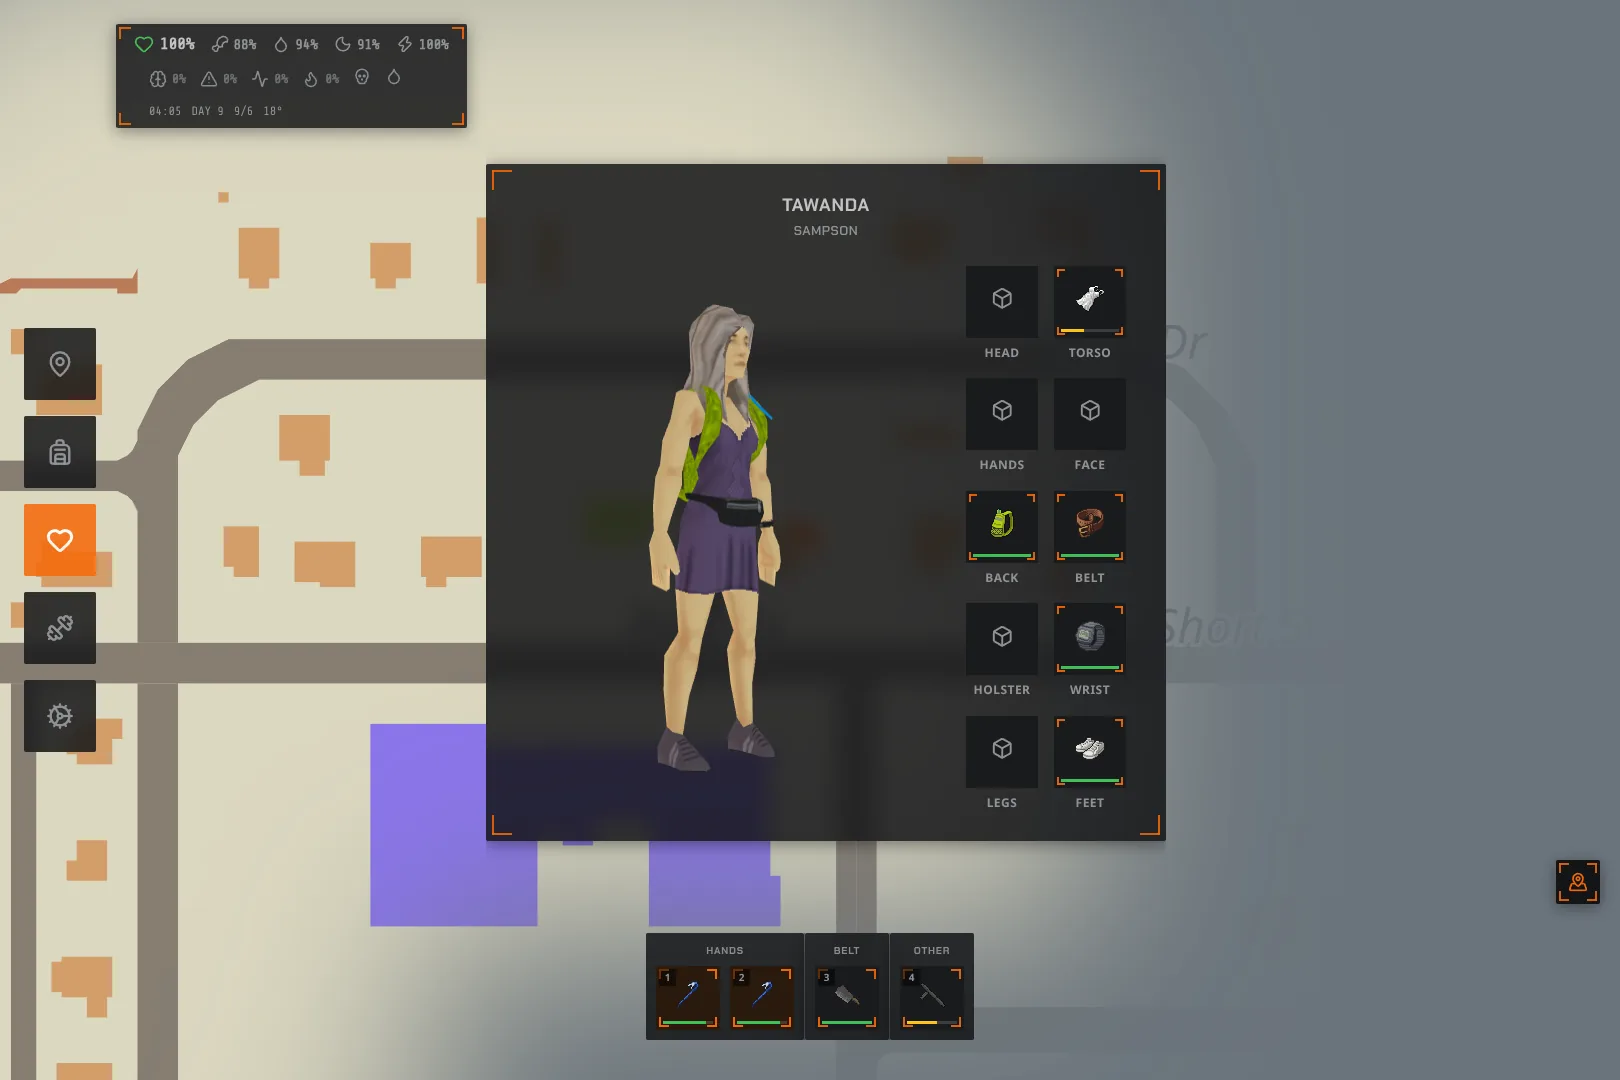
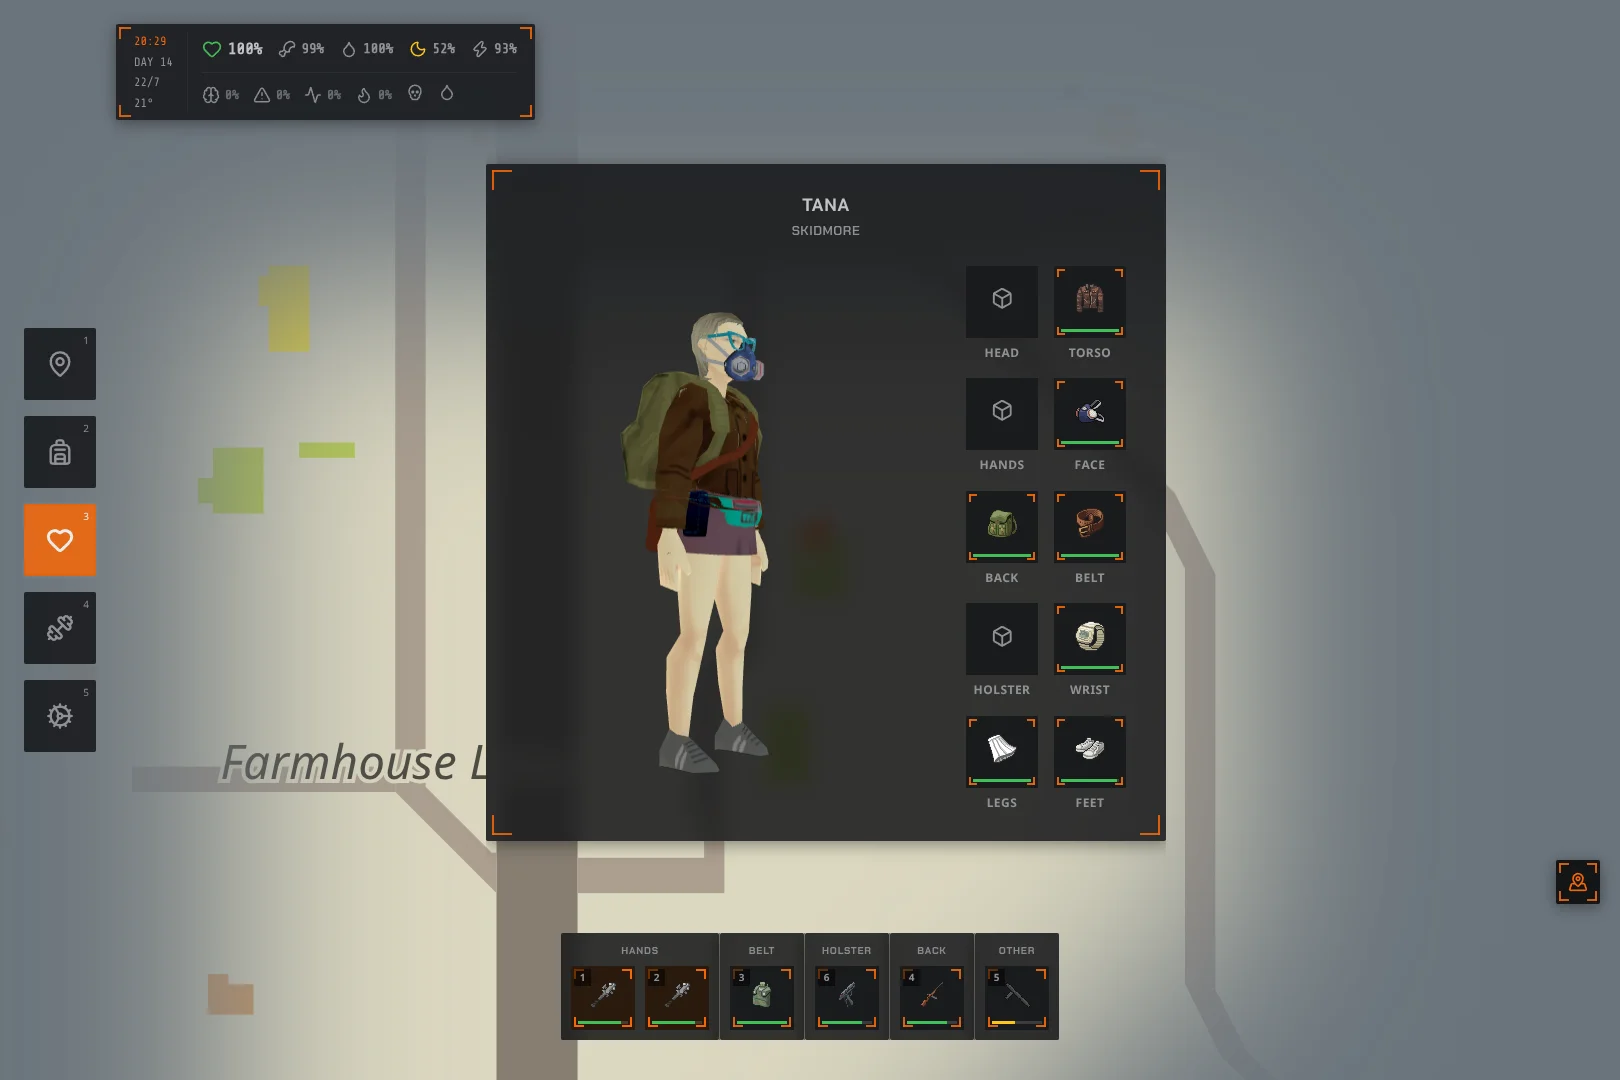
docs: refresh the READMEs and screenshots for publishing
The README described the dashboard as it was several features ago. It
now covers tap-to-route pathfinding, the streamed fog of war, traits,
the world clock and panic resistance in the vitals pill, the
annotations drawer and the keyboard navigation, and its install section
is written for someone who subscribed on the Workshop rather than for
someone with the repository checked out - including the Linux table for
translating the paths the game reports.

The mod README gains the fog and traits categories and the new status
fields, which were streaming but undocumented.

All six screenshots are retaken from a live game.

diff --git a/README.md b/README.md
@@ -1,42 +1,52 @@
 # PZ Dashboard
 
-A second-screen companion for Project Zomboid. A client-side Lua mod streams
-live game state out of the running game; choose either a local Bun server for
-second-device access or a direct browser app for a dashboard on the game
-machine.
+A second-screen companion for Project Zomboid (Build 42). A client-side Lua
+mod streams live game state out of the running game, and a browser dashboard
+displays it — and acts on it. Two ways to view: a single self-contained HTML
+file that ships inside the mod and runs straight from disk on the game
+machine, or a local Bun server for a phone, tablet or handheld on the same
+network.
 
 The PZ Lua sandbox has no network access, so the mod writes JSON snapshots
-into `<Zomboid>/Lua/PZDashboard_<category>.json` and the server watches that
-folder. The same folder carries commands the other way, so the dashboard can
-act on the game, not just display it.
+into `<Zomboid>/Lua/PZDashboard_<category>.json`. The same folder carries
+commands the other way, so the dashboard can move items and change gear, not
+just display them.
 
 ```
 Project Zomboid  ──(JSON files in <Zomboid>/Lua/)──>  Bun server  ──(HTTP + WebSocket)──>  browser
                   <──(PZDashboard_command.json)─────
 
-Browser Direct ──(File System Access API, local machine only)──> dashboard
+Dashboard.html ──(File System Access API, game machine only)──> dashboard
 ```
 
 ![Map screen](docs/screenshots/home.webp)
 
 The map is the home screen and stays mounted behind everything else: pan and
 zoom survive navigation, the player marker eases between position fixes, and
-fog of war hides whatever you haven't uncovered in the in-game map yet.
+fog of war hides everything you haven't uncovered in the in-game map yet.
+Tap anywhere on the map to route there — the dashboard reads the game's own
+vector map data and follows roads, falling back to a straight line when no
+path exists.
 
 ## Features
 
 ### Live state, streamed out of the game
 
-- **Status** — name, overall health, and the raw need stats (hunger, thirst,
-  fatigue, endurance, stress, panic, boredom, pain), plus infection and
-  bleeding flags.
+- **Status** — name, overall health and the raw need stats (hunger, thirst,
+  fatigue, endurance, stress, panic, boredom, pain), panic resistance, plus
+  infection and bleeding flags and the world clock: in-game time, day, date
+  and temperature.
 - **Position & map** — player coordinates, facing direction, safehouse and
   in-vehicle flags, pushed 4x a second so the map marker glides instead of
   teleporting.
+- **Explored map** — the fog-of-war grid from the game's own visited-map
+  data, so the dashboard map only shows ground you have actually seen.
 - **Vehicles** — last known position of every vehicle driven this session,
-  so a parked car stays on the map after you walk away.
+  so a parked car stays on the map after you walk away. The browser
+  remembers the last one across game restarts.
 - **Map annotations** — the notes and stamps you drew on the in-game world
-  map, with their colour, rotation and author.
+  map, with their colour, rotation and author, on the map and in a
+  side drawer.
 - **Containers** — the player's inventory, every carried bag, the vehicle's
   glovebox/trunk/seats when driving, every nearby crate, corpse, floor bag
   and loose item on the ground, each with weight, capacity, lock state and
@@ -44,6 +54,8 @@ fog of war hides whatever you haven't uncovered in the in-game map yet.
 - **Skills** — every perk with level, XP and the thresholds around it,
   grouped by the category the game itself puts it in (so new Build 42 skills
   appear without a code change).
+- **Traits** — every trait the character has, with its description, cost and
+  the XP boosts it grants, positive and negative split apart.
 - **Toolbar** — primary and secondary hand items and attached hotbar slots,
   including ammo counts for ranged weapons.
 - **Equipment** — worn clothing by body location.
@@ -54,7 +66,8 @@ Every category has its own on/off switch and update interval under
 **Options > Mods > PZ Dashboard**, editable live, so you can trade streamed
 detail against in-game performance. A manifest file reports which categories
 are on and when each last updated, so the dashboard can tell "off" apart from
-"no data yet".
+"no data yet" — and the vitals pill keeps its last reading on screen, dimmed,
+when the game or the server goes away.
 
 ### Acting on the game from the dashboard
 
@@ -73,7 +86,8 @@ timed actions and special cases:
 
 Five screens, all sharing one persistent shell: the map, the vitals pill, the
 nav rail and the hotbar never unmount, so switching screens never resets the
-map or drops a frame of the marker's easing.
+map or drops a frame of the marker's easing. Keys `1`–`5` jump between
+screens and `Escape` closes back to the map.
 
 **Health** — a live 3D render of your character, built from the game's own
 meshes and textures using the ids the mod reports. Drag to spin it. The
@@ -91,14 +105,14 @@ through vanilla's own handlers, animations and all.
 ![Inventory screen](docs/screenshots/inventory.webp)
 
 **Skills** — every perk with its level and XP bar, grouped by the category the
-game itself puts it in, so Build 42's newer skills show up without a code
-change here.
+game itself puts it in, alongside the character's traits and what each one
+does.
 
 ![Skills screen](docs/screenshots/skills.webp)
 
-**Settings** — dashboard-side toggles, including fog of war. The mod-side
-switches (which categories stream, and how often) live in-game under
-**Options > Mods > PZ Dashboard**.
+**Settings** — dashboard-side toggles: fog of war, the traits list, and the
+vitals pill down to individual stats. The mod-side switches (which categories
+stream, and how often) live in-game under **Options > Mods > PZ Dashboard**.
 
 ![Settings screen](docs/screenshots/settings.webp)
 
@@ -108,28 +122,71 @@ second screen the size of an Ayaneo.
 
 <img src="docs/screenshots/mobile-health.webp" width="320" alt="Health screen on a phone">
 
-## Layout
+## Install
+
+Enable **PZ Dashboard** in the in-game Mods menu, then pick how you want to
+view it.
+
+**On the machine running the game.** The mod folder contains
+`Dashboard.html` — the entire dashboard in one file. Open it in Chrome or
+Edge; it asks once for your `Zomboid` folder (read and write, so it can send
+commands back) and then, for the map and character screens, for the game
+install folder (read-only). Both are remembered. No server, no network.
+
+**On a phone, tablet or handheld.** Run the Bun server on the game machine
+and open `http://<that machine>:3000` on the other device. See
+[`apps/server/README.md`](apps/server/README.md).
+
+**On Linux**, the paths the copy buttons in **Options > Mods > PZ Dashboard**
+hand you are the paths the *game* sees, and both the browser and the server
+run outside that view, so translate them first:
+
+| Game shows | Native build | Proton / Steam Play |
+|---|---|---|
+| `C:\users\steamuser\Zomboid` | `~/Zomboid` | `<Steam>/steamapps/compatdata/108600/pfx/drive_c/users/steamuser/Zomboid` |
+
+`<Steam>` is usually `~/.local/share/Steam`, or the library folder you
+installed the game into. Subscribed Workshop mods live outside that prefix
+altogether, under `<Steam>/steamapps/workshop/content/108600/<id>/mods/PZDashboard`,
+which is where `Dashboard.html` will be. Everything else is the same: point
+the browser's folder picker, or `PZ_LUA_DIR`, at the translated path.
+
+## Development
 
 - `mod/` — the Project Zomboid Build 42 mod. See [`mod/README.md`](mod/README.md)
   for the exact category schemas, command protocol and install steps.
 - `packages/core/` — portable state, map, model, icon and route logic.
 - `packages/web/` — shared React dashboard.
 - `apps/server/` — Bun HTTP/WebSocket server for LAN and second-device use.
-  See [`apps/server/README.md`](apps/server/README.md).
-- `apps/browser/` — static File System Access build for the machine running
-  Project Zomboid. See [`apps/browser/README.md`](apps/browser/README.md).
+- `apps/browser/` — the static File System Access build that becomes
+  `Dashboard.html`. See [`apps/browser/README.md`](apps/browser/README.md).
 - `docs/plans/` — design notes for work that isn't built yet:
   [animating the character model](docs/plans/CHARACTER_ANIMATION_PLAN.md) and
   [a 3D map](docs/plans/MAP_3D_PLAN.md).
 
-## Quick start
+```sh
+bun install
+bun scripts/deploy-mod.ts        # copy the mod into Zomboid/mods
+cd apps/server && bun run dev    # dashboard on http://localhost:3000
+```
 
-1. Copy `mod/PZDashboard` into your Zomboid `mods/` folder and enable
-   "PZ Dashboard" in-game (or run `bun scripts/deploy-mod.ts` from this
-   directory, which reads `PZ_LUA_DIR` from `apps/server/.env.local`).
-2. Run server mode: `cd apps/server && bun install && bun run dev`.
-3. Open `http://localhost:3000` on a phone, tablet or handheld.
-4. Or build browser mode: `cd apps/browser && bun run build`, then open
-   `dist/index.html` on the machine running the game. It is a single
-   self-contained file with no server and no network — the shape the mod
-   ships to Workshop subscribers.
+`scripts/deploy-mod.ts` reads `PZ_LUA_DIR` from `apps/server/.env.local`;
+override it with `PZ_LUA_DIR=/path/to/Zomboid/Lua bun scripts/deploy-mod.ts`.
+Copying does not reload Lua — use F11 > Lua Debug > Reload Lua, reload the
+save, or restart the game.
+
+### Packaging for the Steam Workshop
+
+```sh
+bun scripts/package-workshop.ts
+```
+
+Builds `apps/browser`, then stages the mod plus the built `Dashboard.html`
+into `<Zomboid>/Workshop/PZDashboard/Contents/mods/PZDashboard` and writes a
+starter `workshop.txt` beside it (left alone once it exists, so the id Steam
+assigns on first upload survives re-runs). Pass `--out <dir>` to stage
+somewhere else, `--no-build` to reuse the existing browser build. Upload from
+the game's own Workshop > Create/Update Item screen.
+
+The script warns about the two things it can't generate: `preview.png` for
+the Workshop listing, and `poster.png` / `icon.png` for the in-game mod list.

diff --git a/mod/README.md b/mod/README.md
@@ -43,6 +43,7 @@ to the per-category maximum.
 |----|------|------------------|-----|
 | `status` | `PZDashboard_status.json` | 1s | 30s |
 | `map` | `PZDashboard_map.json` | 0.25s | 30s |
+| `fog` | `PZDashboard_fog.json` | 2s | 60s |
 | `vehicles` | `PZDashboard_vehicles.json` | 2s | 60s |
 | `annotations` | `PZDashboard_annotations.json` | 5s | 60s |
 | `containers` | `PZDashboard_containers.json` | 2s | 60s |
@@ -50,14 +51,17 @@ to the per-category maximum.
 | `toolbar` | `PZDashboard_toolbar.json` | 1s | 30s |
 | `equipment` | `PZDashboard_equipment.json` | 1s | 30s |
 | `appearance` | `PZDashboard_appearance.json` | 2s | 60s |
+| `traits` | `PZDashboard_traits.json` | 10s | 60s |
 
 ### status
 
 Character name (forename, surname, display name), overall body health, and
 the raw `CharacterStat` need values: hunger, thirst, fatigue, endurance,
 stress, panic, boredom, pain. These run 0-1 and *higher is worse* — the
-dashboard inverts them for display. Plus two flags: `infected`, and
-`bleeding` (true if any body part has a non-zero bleeding time).
+dashboard inverts them for display. Plus `panicResistance` and
+`hoursSurvived`, the world clock (`hour`, `minute`, `day`, `month` and the
+climate's `temperature`), and two flags: `infected`, and `bleeding` (true if
+any body part has a non-zero bleeding time).
 
 ### map
 
@@ -65,6 +69,18 @@ Player position (`x`, `y`, `z`), forward direction vector (`dirX`, `dirY`),
 whether the player has a safehouse, and whether they're currently in a
 vehicle. Streamed fast (0.25s default) because the dashboard eases the map
 marker between fixes.
+
+### fog
+
+Which ground the player has uncovered on the in-game map, read from
+`WorldMapVisited`. The world is sampled in 32x32-square units, packed 8x8
+units to a cell as one bit per unit, and each cell is emitted as a hex
+string keyed by cell coordinates (`cells`, plus `unitSquares` and
+`cellSquares` so the dashboard can place them). A snapshot is only written
+when a bit actually changed. Sweeping the whole ~314k-unit grid every tick
+is far too many calls, so each run probes a slice of it (`FOG_UNITS_PER_PASS`)
+plus the area around the player first — walking reveals immediately, while a
+remote reveal (reading a map item) can take up to a minute to appear.
 
 ### vehicles
 
@@ -135,6 +151,14 @@ and for each worn garment the `clothingItem` id, body location, `hasModel`,
 `clothing/clothingItems/*.xml` and `hairStyles/*.xml` rather than
 reimplementing PZ's lookup rules in Lua.
 
+### traits
+
+Every trait the character has, from `TraitFactory`: `id`, `label`,
+`description`, `cost` (negative for negative traits), `profession` (true for
+the free ones a profession grants), an `icon` texture name, and `xpBoosts` —
+the perks the trait starts you ahead in, each with `perk`, `perkName` and
+`level`.
+
 ## Commands (server -> mod)
 
 The server writes a single-line `PZDashboard_command.json`
@@ -183,6 +207,11 @@ source mod into the matching `Zomboid/mods/PZDashboard` directory. Override
 the target with `PZ_LUA_DIR=/path/to/Zomboid/Lua bun scripts/deploy-mod.ts`.
 Reload Lua with F11 > Lua Debug > Reload Lua, reload the save, or restart the
 game after deployment.
+
+For a Workshop build, `bun scripts/package-workshop.ts` stages this folder
+plus the built browser app as `Dashboard.html` under
+`<Zomboid>/Workshop/PZDashboard/Contents/mods/PZDashboard`. `Dashboard.html`
+is not part of the source tree — it only exists in a packaged copy.
 
 ## File layout
 
